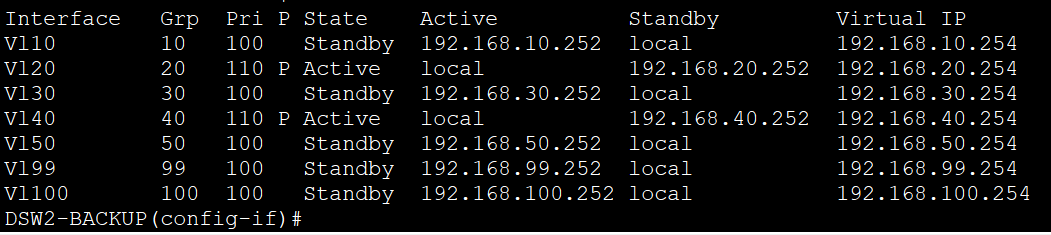
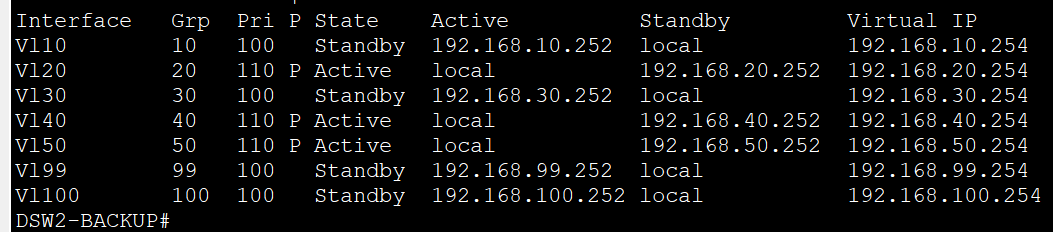
- finalized readme.md

diff --git a/README.md b/README.md
@@ -160,14 +160,14 @@ The HSRP active gateway placement is aligned with the spanning-tree root placeme
 | Backup multilayer switch SVI | `192.168.x.253` | `2001:DB8:x::253` |
 | Virtual default gateway | `192.168.x.254` | Not used in this Packet Tracer IPv6 lab |
 
-Replace `x` with the VLAN number such as `10`, `20`, `30`, `40`, or `100`.
+Replace `x` with the VLAN number such as `10`, `20`, `30`, `40`, `50`, `99`, or `100`.
 
 ### HSRP Active / Standby VLAN Split
 
 | VLAN Group | Active HSRP Device | Standby HSRP Device |
 |---|---|---|
-| `10`, `30`, `100` | `DSW1-MAIN` | `DSW2-BACKUP` |
-| `20`, `40` | `DSW2-BACKUP` | `DSW1-MAIN` |
+| `10`, `30`, `99`, `100` | `DSW1-MAIN` | `DSW2-BACKUP` |
+| `20`, `40`, `50` | `DSW2-BACKUP` | `DSW1-MAIN` |
 
 ### Example Configuration
 
@@ -189,6 +189,14 @@ interface vlan 30
 !
 interface vlan 40
  standby 40 ip 192.168.40.254
+!
+interface vlan 50
+ standby 50 ip 192.168.50.254
+!
+interface vlan 99
+ standby 99 ip 192.168.99.254
+ standby 99 priority 110
+ standby 99 preempt
 !
 interface vlan 100
  standby 100 ip 192.168.100.254
@@ -215,6 +223,14 @@ interface vlan 40
  standby 40 priority 110
  standby 40 preempt
 !
+interface vlan 50
+ standby 50 ip 192.168.50.254
+ standby 50 priority 110
+ standby 50 preempt
+!
+interface vlan 99
+ standby 99 ip 192.168.99.254
+!
 interface vlan 100
  standby 100 ip 192.168.100.254
 ```
@@ -230,15 +246,23 @@ show running-config | section interface Vlan
 
 ### Verification Screenshots
 
-The screenshots below show the HSRP state aligned with the spanning-tree load-balancing design: `DSW1-MAIN` is active for `VLANs 10, 30, and 100`, while `DSW2-BACKUP` is active for `VLANs 20 and 40`.
+The screenshots below show the HSRP state aligned with the spanning-tree load-balancing design: `DSW1-MAIN` is active for `VLANs 10, 30, 99, and 100`, while `DSW2-BACKUP` is active for `VLANs 20, 40, and 50`.
 
 #### DSW1-MAIN HSRP State
 
-![DSW1-MAIN standby brief output showing VLANs 10, 30, and 100 active while VLANs 20 and 40 remain standby](screenshots/fhrp-ds-main.png)
+![DSW1-MAIN standby brief output showing VLANs 10, 30, 99, and 100 active while VLANs 20, 40, and 50 remain standby](screenshots/fhrp-ds-main.png)
+
+#### DSW1-MAIN STP Root Alignment
+
+![DSW1-MAIN spanning-tree root status showing VLANs 10, 30, 99, and 100 preferred, aligned with HSRP active gateway roles](screenshots/hsrp-stp-aligned-dsmain.png)
 
 #### DSW2-BACKUP HSRP State
 
-![DSW2-BACKUP standby brief output showing VLANs 20 and 40 active while VLANs 10, 30, and 100 remain standby](screenshots/fhrp-ds-backup.png)
+![DSW2-BACKUP standby brief output showing VLANs 20, 40, and 50 active while VLANs 10, 30, 99, and 100 remain standby](screenshots/fhrp-ds-backup.png)
+
+#### DSW2-BACKUP STP Root Alignment
+
+![DSW2-BACKUP spanning-tree root status showing VLANs 20, 40, and 50 preferred, aligned with HSRP active gateway roles](screenshots/hsrp-stp-aligned-dsbackup.png)
 
 ### Distribution-to-Distribution Routed Link
 
@@ -979,6 +1003,8 @@ This section documents the wireless LAN (WLAN) integration using a Cisco Wireles
 ### Wireless Client Verification
 ![Guest wireless DHCP pool and Packet Tracer workaround screenshot showing WLC DHCP assignment for VLAN 50 while management traffic appears on VLAN 99](screenshots/vlan50-guests-dhcp-pool-wlc-workaround-for-pt-bug-devices_are_using_mgmt_99_network_as_ip.png)
 
+![Smartphone wireless connectivity test showing a client successfully associating through the wireless LAN controller](screenshots/smartphone-1-test-wificonnect-vlan10.png)
+
 ## Design Notes
 
 - VLAN 99 is used as the native VLAN to support WLC management traffic.
@@ -1018,6 +1044,7 @@ Wireless clients appear as `192.168.99.x` instead of their assigned VLAN subnet.
 
 - Only WLANs using WLC DHCP behave correctly  
 - Other WLANs may still appear as VLAN 99 (`192.168.99.0/24`)  
+- Wireless devices may connect to random APs in the topology rather than the nearest or strongest signal — this is a Packet Tracer simulation behavior and does not reflect real-world RSSI-based AP selection.
 
 ## ACL Design for Guest Wireless
 
